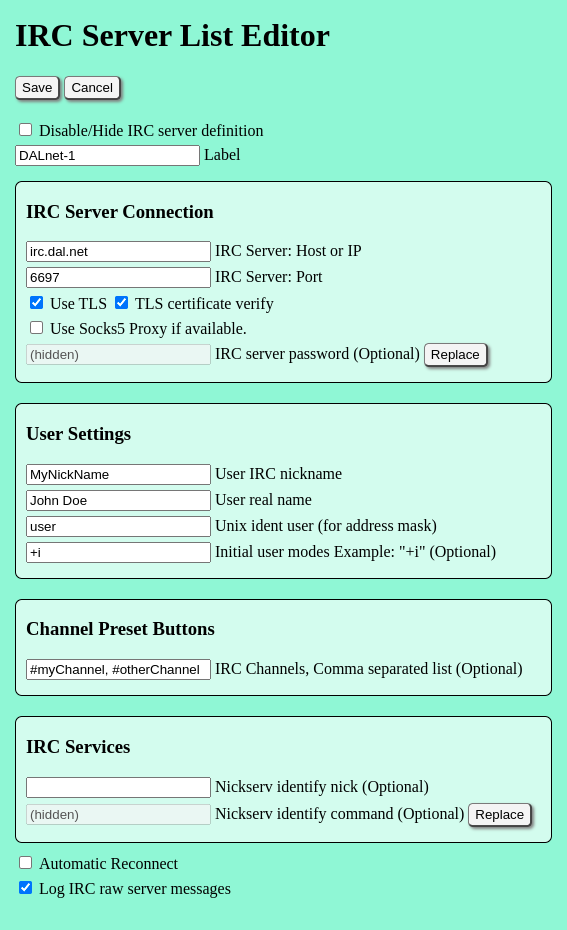
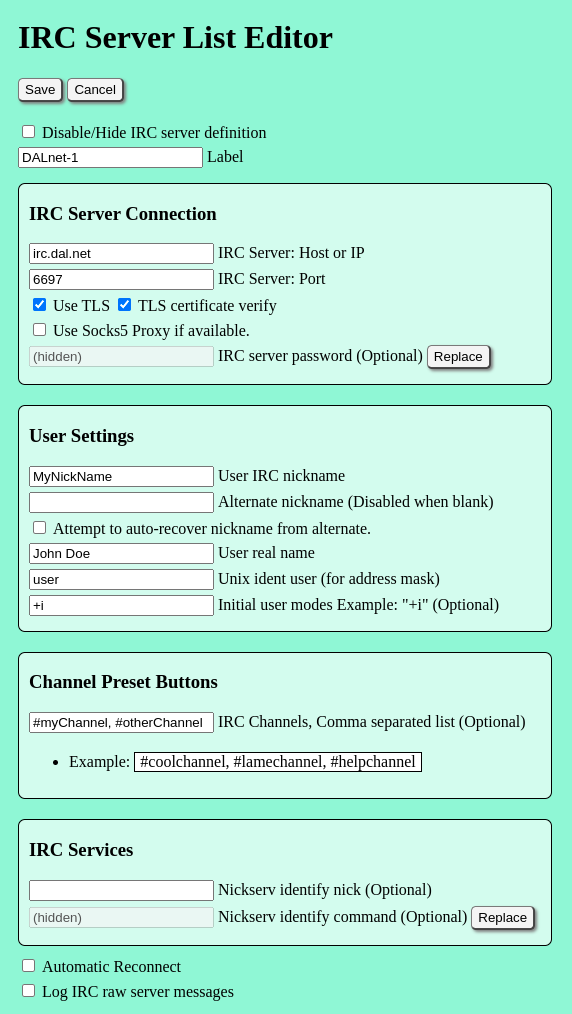
Update /docs for alternate nickname

diff --git a/docs/server-config.html b/docs/server-config.html
@@ -152,8 +152,12 @@
             </p>
             <p>
               The IRC nickname, real name, used ID and initial modes are similar to other IRC clients.
-              The program only supports one nickname entry per IRC server definition. 
-              Automatic rotation to backup nicknames is not currently available (perhaps in the future).
+            </p>
+            <p>
+              If an optional alternate nickname is specified, it will be tried when the primary 
+              nickname is not available. If the nickname recovery checkbox is checked, should the 
+              primary nickname become available while the user is logged in to IRC with the alternate 
+              nickname, automatic recovery of the primary nickname will be attempted.
             </p>
             <p>
               The IRC channel list is a comma separated list of channel names. 
@@ -172,7 +176,7 @@
             </p>
           </div>
           <div class="image-photo">
-            <img src=images/server-form.png width="567" height="930"alt="Server definition form">
+            <img src=images/server-form.png width="572" height="1014"alt="Server definition form">
           </div>
         </div>  
         <p>
@@ -286,6 +290,11 @@
   "password": "",
 </pre></div>
 
+        <p>
+          Security note: The optional IRC server password will be stored unencrypted 
+          in clear text in the servers.json file.
+          It is recommended to check for proper file permissions.
+        </p>
 
         <div class="install-section-title">3 - Server Options</div>
        
@@ -329,6 +338,22 @@
           This section should be obvious to anyone using IRC.
         </p>
         <p>
+          In the case where an IRC server returns a 433 ERR_NICKNAMEINUSE
+          prior to nickname registration, the altNick value will be 
+          submitted as an alternate nickname. Upon IRC disconnect, 
+          if the alternate nickname is in use, the requested nickname will revert back
+          to the  primary nickname value.
+        </p>
+        <p>
+          If recoverNick is set to the true, the client will automatically 
+          attempt to recover the primary nickname by sending a NICK command
+          with the primary nickname. This is triggered in 2 ways.
+          If a ghost user with primary nickname is present in an IRC channel
+          with the active alternate nickname, a QUIT message will trigger immediate
+          nickname recovery. Otherwise, a cycle timer will periodically 
+          attempt to select the primary nickname until a time limit is reached.
+        </p>
+        <p>
           Please note that different type of IRC servers have different
           requirements for the number of characters allowed in a Nickname,
           user or real name. These are often displayed in a server message
@@ -338,6 +363,8 @@
         </p>
 <div class="pre-div"><pre>
   "nick": "MyNickname",
+  "altNick": "",
+  "recoverNick", false,
   "user": "user",
   "real": "John Doe",
   "modes": "+i",
@@ -370,9 +397,21 @@
 
         <div class="install-section-title">6 - NickServ IDENTIFY</div>
         <p>
-          There is a provision to automatically dispatch a NickServ
-          IDENTIFY message when the IRC server connection is made and
-          when the current IRC nickname matches the property &quotidentifyNick&quot.
+          There is a provision to automatically dispatch a NickServ IDENTIFY message.
+          This enabled when the IRC configured primary nickname matches the property &quotidentifyNick&quot.
+        </p>
+        <ul>
+          <li>
+            Prior to nickname registration, triggered upon server &quot;433&quot; message ERR_NICKNAMEINUSE.
+          </li>
+          <li>
+            During nickname recovery, triggered upon server &quot;NICK&quot; message.
+          </li>
+        </ul>
+        <p>
+          Security Note: the optional identify command may contain passwords.
+          This configuration is stored unencrypted in clear text in the servers.json file.
+          It is recommended to check for proper file permissions.
         </p>
         <p>
           To disable this feature, set the following properties
@@ -492,6 +531,8 @@
       "identifyNick": "MyNickname",
       "identifyCommand": "PRIVMSG NickServ@services.dal.net :IDENTIFY xxxxxxxx",
       "nick": "MyNickname",
+      "altNick": "",
+      "recoverNick", false,
       "user": "user",
       "real": "John Doe",
       "modes": "+i",

diff --git a/secure-minify/css/serverlist.css b/secure-minify/css/serverlist.css
@@ -1,8 +1,8 @@
 html{margin:0;padding:0}body{margin:0;padding:0 20px 0 20px;background-color:#9cf7d4}button{background-color:#f4f4f4;border-top:1px solid #777;border-right:2px solid #444;border-bottom:2px solid #444;
 border-left:1px solid #777;border-radius:5px;box-shadow:2px 2px 3px grey;color:#000;padding-top:3px;padding-bottom:3px;cursor:pointer}button:hover{background-color:#e2e2e2}button[disabled]{
 background-color:#b8b8b8;color:#444}.input-group{background-color:#d7fcee;border:1px solid #000;border-radius:7px;padding-top:0;padding-left:10px;padding-bottom:10px}.yellow-warning-div{
-background-color:#ff0;border:1px solid #000;border-radius:7px;margin-top:10px;padding:10px}.white-example-div{background-color:#fff;border:1px solid #000;display:inline-block;margin-top:3px;
-padding-left:5px;padding-right:5px}.error-div{color:#fff;background-color:red;padding-left:15px;padding-top:5px;padding-bottom:5px}.error-title{text-align:center;font-size:120%}.info-pre-help{
-font-size:80%}.inline-block{display:inline-block}.button-div{margin-bottom:5px}.input-label-right{display:inline-block}.rm5{margin-right:5px}.rm10{margin-right:10px}.rm20{margin-right:20px}table{
-background-color:#fff;border-spacing:0;font-size:80%}tr{background-color:#fff}td{text-align:center}td:first-of-type{text-align:center}.vh5{height:5px}.vh10{height:10px}.vh20{height:20px}.red{color:red
-}
+background-color:#ff0;border:1px solid #000;border-radius:7px;margin-top:10px;margin-right:10px;padding:10px}.white-example-div{background-color:#fff;border:1px solid #000;display:inline-block;
+margin-top:3px;padding-left:5px;padding-right:5px}.error-div{color:#fff;background-color:red;padding-left:15px;padding-top:5px;padding-bottom:5px}.error-title{text-align:center;font-size:120%}
+.info-pre-help{font-size:80%}.inline-block{display:inline-block}.button-div{margin-bottom:5px}.input-label-right{display:inline-block}.rm5{margin-right:5px}.rm10{margin-right:10px}.rm20{margin-right:
+20px}table{background-color:#fff;border-spacing:0;font-size:80%}tr{background-color:#fff}td{text-align:center}td:first-of-type{text-align:center}.vh5{height:5px}.vh10{height:10px}.vh20{height:20px}
+.red{color:red}

diff --git a/secure/css/serverlist.css b/secure/css/serverlist.css
@@ -43,6 +43,7 @@ button[disabled] {
   border: 1px solid black;
   border-radius: 7px;
   margin-top: 10px;
+  margin-right: 10px;
   padding: 10px;
 }
 .white-example-div {
